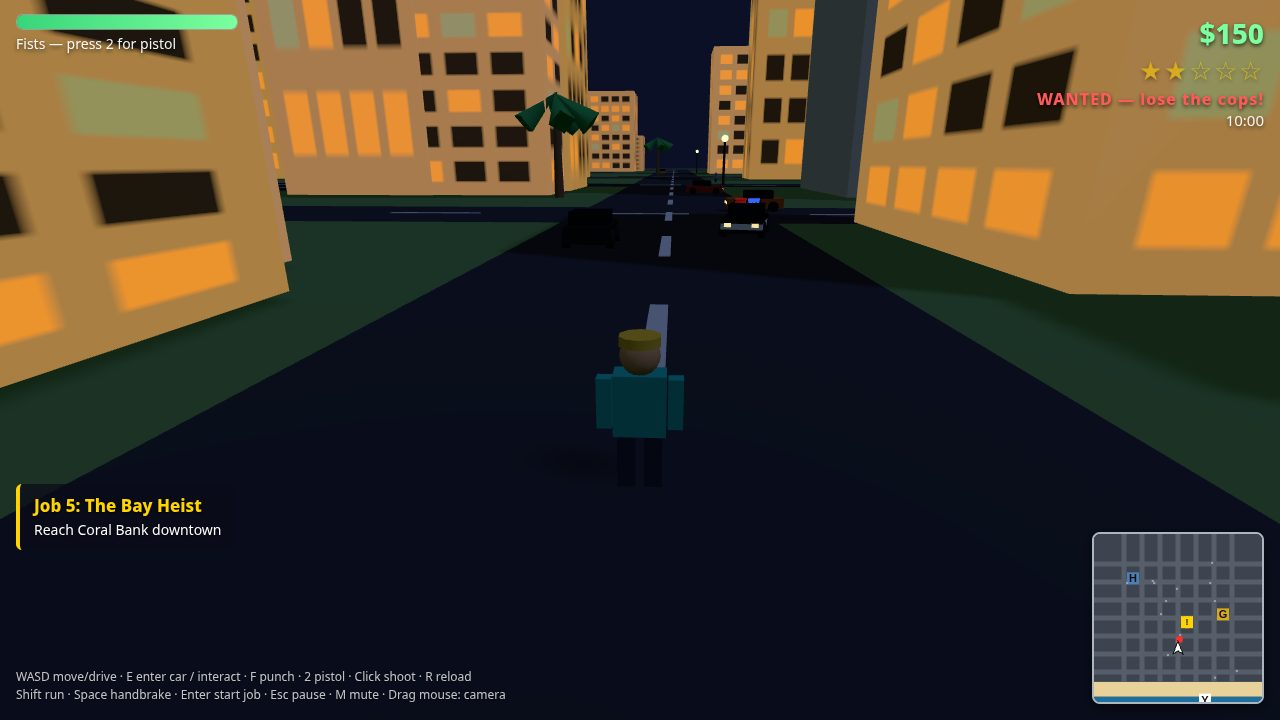
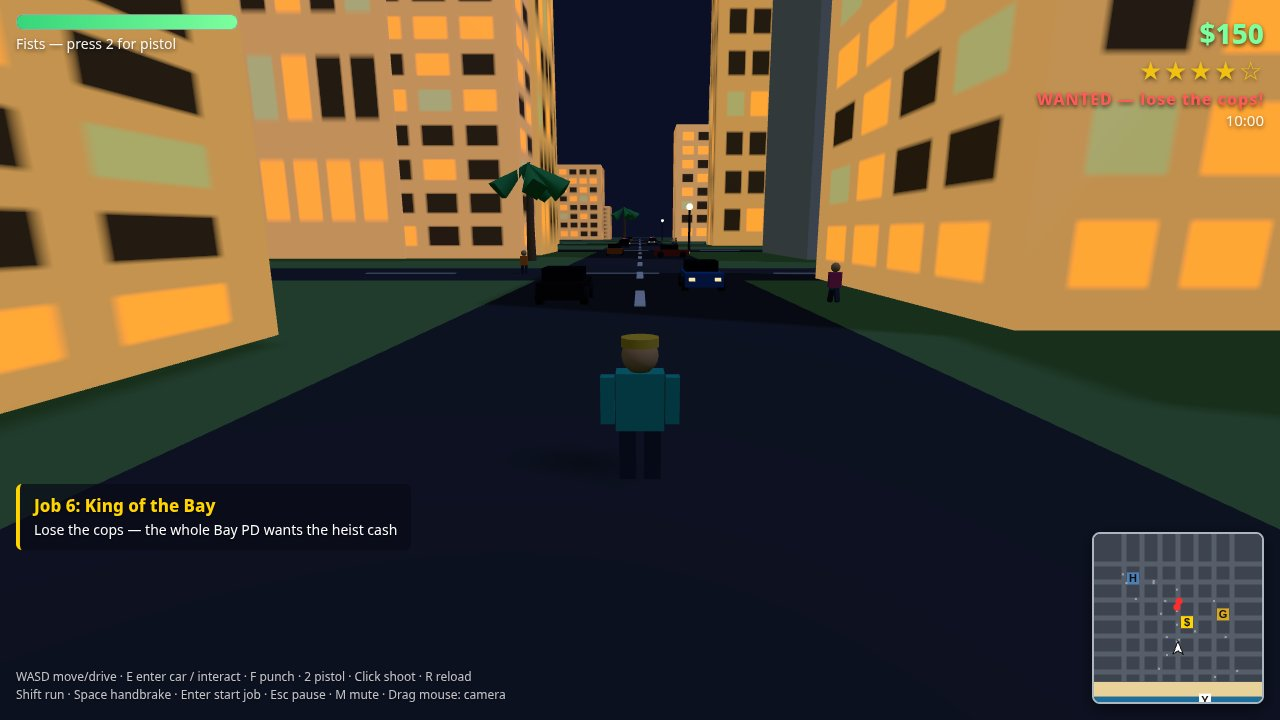
Neon Bay Round 3: 6th mission King of the Bay, denser cinematic screenshots, night neon polish

diff --git a/game/src/shots.js b/game/src/shots.js
@@ -3,7 +3,9 @@
 // (same seed, same positions) so a screenshot is a true render of the game
 // and the same URL always gives the same frame. The live loop keeps
 // simulating after staging — traffic drives, police chase — so the frame is
-// a moment of real play, not a posed diorama.
+// a moment of real play, not a posed diorama. Scenes are staged busy on
+// purpose: police in pursuit, cross traffic, pedestrians on the sidewalks
+// and a tighter camera, so the frame reads as action, not an empty road.
 
 import * as THREE from 'three';
 import { SHOT_SEED } from './config.js';
@@ -16,6 +18,26 @@ function placeCarOnRoad(car, x, z, heading, speed) {
   car.mesh.rotation.y = heading;
   car.speed = speed;
   car.targetSpeed = speed;
+}
+
+// Place a traffic car on a road and teach the traffic AI its lane, so it
+// keeps driving along that road instead of drifting across it. For a
+// north-south road the lane is -3.5 (northbound) or +3.5 (southbound); for
+// an east-west road it is +3.5 (eastbound) or -3.5 (westbound).
+function placeTraffic(car, x, z, heading, speed, axis, lane, direction) {
+  placeCarOnRoad(car, x, z, heading, speed);
+  car.axis = axis;
+  car.lane = lane;
+  car.direction = direction;
+}
+
+// Put a pedestrian on a sidewalk and send them strolling along it.
+function placePed(ped, x, z, heading) {
+  ped.mesh.position.set(x, 0, z);
+  ped.heading = heading;
+  ped.mesh.rotation.y = heading;
+  ped.state = 'walk';
+  ped.waypoint = new THREE.Vector3(x, 0, z + Math.cos(heading) * 30);
 }
 
 function placePlayerOnFoot(G, x, z, heading) {
@@ -67,55 +89,103 @@ export function stageShot(name, G) {
   G.police.wanted.stars = 0;
   G.police.wanted.bustTimer = 0;
   G.player.health = 100;
+  G.shotCameraDist = null;
+  G.shotCameraHeight = null;
+  G.snapCamera = true;
 
   if (name === 'chase') {
-    // Cover shot: daytime police chase, wanted 3 stars, mission objective on.
-    // Player heads north (heading PI) straight at the target, so the
-    // autopilot never U-turns; the police cars start ahead of the player,
-    // in frame, with their light bars facing the camera.
+    // Cover shot: five-star police chase down the avenue, mission objective
+    // on. Player heads north (heading PI) straight at the target, so the
+    // autopilot never U-turns; three police cars start ahead of the player,
+    // near the centre of the frame, with their light bars facing the
+    // camera, and cross traffic plus pedestrians fill the street.
     G.missions.index = 3;
     G.missions.active = true;
     G.missions.stepIndex = 0;
-    addHeat(G.police.wanted, 65, G.time);
+    addHeat(G.police.wanted, 100, G.time);
     syncPoliceCars(G.police, G.player.pos);
     const playerCar = G.playerCar;
     placePlayerInCar(G, playerCar, 0, 40, Math.PI, 26);
     const cops = G.police.cars;
-    if (cops[0]) placeCarOnRoad(cops[0], -6, 16, Math.PI, 30);
-    if (cops[1]) placeCarOnRoad(cops[1], 7, 4, Math.PI, 30);
+    if (cops[0]) placeCarOnRoad(cops[0], -3, 22, Math.PI, 30);
+    if (cops[1]) placeCarOnRoad(cops[1], 4, 10, Math.PI, 30);
+    if (cops[2]) placeCarOnRoad(cops[2], 0, -2, Math.PI, 30);
+    const t = G.traffic;
+    if (t[0]) placeTraffic(t[0], -3.5, -80, Math.PI, 11, 'ns', -3.5, -1);
+    if (t[1]) placeTraffic(t[1], -3.5, -130, Math.PI, 11, 'ns', -3.5, -1);
+    if (t[2]) placeTraffic(t[2], 3.5, -110, 0, 11, 'ns', 3.5, 1);
+    if (t[3]) placeTraffic(t[3], -50, -56.5, Math.PI / 2, 11, 'ew', 3.5, 1);
+    if (t[4]) placeTraffic(t[4], 50, -123.5, -Math.PI / 2, 11, 'ew', -3.5, -1);
+    const p = G.peds;
+    if (p[0]) placePed(p[0], 9, 0, Math.PI);
+    if (p[1]) placePed(p[1], -9, -20, 0);
+    if (p[2]) placePed(p[2], 9, -40, Math.PI);
+    if (p[3]) placePed(p[3], -9, -60, 0);
+    G.shotCameraDist = 10;
+    G.shotCameraHeight = 4.5;
     G.shotAutopilot = { kind: 'drive', target: new THREE.Vector3(0, 0, -160) };
     G.shotTitle = null;
     return { screen: 'play' };
   }
 
   if (name === 'mission') {
-    // Delivery run: player driving the package back to the hideout.
+    // Delivery run: player driving the package back to the hideout, with
+    // traffic on the route and pedestrians near the hideout.
     G.missions.index = 0;
     G.missions.active = true;
     G.missions.stepIndex = 2;
     G.missions.hasPackage = true;
     const playerCar = G.playerCar;
     placePlayerInCar(G, playerCar, -60, 170, Math.PI, 22);
+    const t = G.traffic;
+    if (t[0]) placeTraffic(t[0], -63.5, 100, Math.PI, 11, 'ns', -3.5, -1);
+    if (t[1]) placeTraffic(t[1], -63.5, 20, Math.PI, 11, 'ns', -3.5, -1);
+    if (t[2]) placeTraffic(t[2], -56.5, 60, 0, 11, 'ns', 3.5, 1);
+    if (t[3]) placeTraffic(t[3], -100, 3.5, Math.PI / 2, 11, 'ew', 3.5, 1);
+    if (t[4]) placeTraffic(t[4], -40, -63.5, -Math.PI / 2, 11, 'ew', -3.5, -1);
+    const p = G.peds;
+    if (p[0]) placePed(p[0], -141, -120, 0);
+    if (p[1]) placePed(p[1], -159, -140, Math.PI);
+    if (p[2]) placePed(p[2], -69, 100, 0);
+    if (p[3]) placePed(p[3], -51, 40, Math.PI);
+    G.shotCameraDist = 10.5;
+    G.shotCameraHeight = 5;
     G.shotAutopilot = { kind: 'drive', target: new THREE.Vector3(-150, 0, -132) };
     G.shotTitle = null;
     return { screen: 'play' };
   }
 
   if (name === 'night') {
-    // Night downtown: neon signs, police lights, vault job briefing.
-    // Player stands on road x=0 facing north down the avenue, camera
-    // behind him, so downtown towers, neon and the approaching police car
-    // are all in frame instead of a single facade.
+    // Night downtown, finale job: four stars, two police cars closing in
+    // with light bars flashing, traffic headlights and pedestrians on the
+    // avenue. Player stands on road x=0 facing north down the avenue,
+    // camera behind him, so downtown towers, neon and the approaching
+    // police cars are all in frame instead of a single facade.
     G.setNight(true);
-    G.missions.index = 4;
+    G.missions.index = 5;
     G.missions.active = true;
     G.missions.stepIndex = 0;
-    addHeat(G.police.wanted, 45, G.time);
+    addHeat(G.police.wanted, 80, G.time);
     syncPoliceCars(G.police, G.player.pos);
     placePlayerOnFoot(G, 0, 100, Math.PI);
     G.setCameraYaw(Math.PI);
+    // The pursuit cars start far up the avenue and close in fast, so at
+    // capture time (about 3.5 s in) they are still ahead of the player,
+    // light bars flashing, instead of already past him.
     const cops = G.police.cars;
-    if (cops[0]) placeCarOnRoad(cops[0], 6, 62, 0, 12);
+    if (cops[0]) placeCarOnRoad(cops[0], 3.5, -60, 0, 12);
+    if (cops[1]) placeCarOnRoad(cops[1], -3.5, -40, 0, 12);
+    const t = G.traffic;
+    if (t[0]) placeTraffic(t[0], -3.5, 25, Math.PI, 11, 'ns', -3.5, -1);
+    if (t[1]) placeTraffic(t[1], 3.5, 70, 0, 11, 'ns', 3.5, 1);
+    if (t[2]) placeTraffic(t[2], -40, 63.5, Math.PI / 2, 11, 'ew', 3.5, 1);
+    const p = G.peds;
+    if (p[0]) placePed(p[0], 9, 80, Math.PI);
+    if (p[1]) placePed(p[1], -9, 110, 0);
+    if (p[2]) placePed(p[2], 9, 130, Math.PI);
+    if (p[3]) placePed(p[3], -9, 60, 0);
+    G.shotCameraDist = 7.5;
+    G.shotCameraHeight = 3.2;
     G.shotAutopilot = null;
     G.shotTitle = null;
     return { screen: 'play' };
@@ -124,9 +194,21 @@ export function stageShot(name, G) {
   // Default: 'start' — on foot downtown in live play (HUD, traffic,
   // pedestrians). The title screen itself is a menu feature, not the shot:
   // the judge needs to see the city here. Player stands on road x=0 facing
-  // south, so the avenue, palms and towers fill the frame.
-  placePlayerOnFoot(G, 0, 24, 0);
-  G.setCameraYaw(0);
+  // north toward downtown, so the avenue, towers, neon signs and palms fill
+  // the frame, with his red car parked just ahead.
+  placePlayerOnFoot(G, 0, 48, Math.PI);
+  G.setCameraYaw(Math.PI);
+  const t = G.traffic;
+  if (t[0]) placeTraffic(t[0], -3.5, 10, Math.PI, 11, 'ns', -3.5, -1);
+  if (t[1]) placeTraffic(t[1], 3.5, 25, 0, 11, 'ns', 3.5, 1);
+  if (t[2]) placeTraffic(t[2], -40, 3.5, Math.PI / 2, 11, 'ew', 3.5, 1);
+  const p = G.peds;
+  if (p[0]) placePed(p[0], 9, 30, Math.PI);
+  if (p[1]) placePed(p[1], -9, 55, 0);
+  if (p[2]) placePed(p[2], 9, 70, Math.PI);
+  if (p[3]) placePed(p[3], -9, 20, 0);
+  G.shotCameraDist = 7.5;
+  G.shotCameraHeight = 3.2;
   G.shotAutopilot = null;
   G.shotTitle = null;
   return { screen: 'play' };

diff --git a/game/src/main.js b/game/src/main.js
@@ -1,6 +1,6 @@
 // Neon Bay — boot, game loop, camera, player and the glue between systems.
 // The player explores Neon Bay on foot or by car, steals cars, dodges the
-// Bay PD, fights, and runs five story missions for Kai Reyes.
+// Bay PD, fights, and runs six story missions for Kai Reyes.
 
 import * as THREE from 'three';
 import { WORLD, COLOURS, PLAYER, CAR, WANTED, SHOT_SEED } from './config.js';
@@ -58,8 +58,8 @@ scene.add(hemi);
 
 // ---------- World ----------
 const city = createCity(scene, rng);
-const traffic = spawnTraffic(scene, rng, 14, new THREE.Vector3(0, 0, 24));
-const peds = spawnPedestrians(scene, rng, 26, new THREE.Vector3(0, 0, 24));
+const traffic = spawnTraffic(scene, rng, 20, new THREE.Vector3(0, 0, 24));
+const peds = spawnPedestrians(scene, rng, 38, new THREE.Vector3(0, 0, 24));
 const police = createPolice(scene);
 const combat = createCombat();
 const audio = createAudio();
@@ -184,6 +184,14 @@ const G = {
   setCameraYaw(yaw) { cameraYaw = yaw; },
   shotAutopilot: null,
   shotTitle: null,
+  // Screenshot scenes may tighten the camera (closer, lower) for a more
+  // cinematic frame; null means the normal gameplay distance/height.
+  shotCameraDist: null,
+  shotCameraHeight: null,
+  // Screenshot scenes snap the camera to the staged frame on the first
+  // frame instead of lerping there: the shot must be framed correctly even
+  // if only a few frames run before the capture.
+  snapCamera: false,
 };
 
 function setNightFlag(flag) {
@@ -191,21 +199,21 @@ function setNightFlag(flag) {
   G.isNight = flag;
   scene.background = new THREE.Color(flag ? COLOURS.skyNight : COLOURS.skyDay);
   scene.fog.color = new THREE.Color(flag ? 0x0b1026 : 0x9fc4e0);
-  sun.intensity = flag ? 0.5 : 2.4;
+  sun.intensity = flag ? 0.65 : 2.4;
   sun.color = new THREE.Color(flag ? COLOURS.sunNight : COLOURS.sunDay);
-  hemi.intensity = flag ? 0.35 : 0.9;
+  hemi.intensity = flag ? 0.5 : 0.9;
   city.setNight(flag);
 }
 
 function applySaveToMissions() {
-  missions.index = Math.min(save.missionIndex, 4);
+  missions.index = Math.min(save.missionIndex, 5);
   missions.done = save.storyDone;
 }
 
 function persistSave() {
   writeSave({
     cash, respect,
-    missionIndex: missions.done ? 5 : missions.index,
+    missionIndex: missions.done ? 6 : missions.index,
     storyDone: missions.done,
   });
 }
@@ -217,6 +225,10 @@ function startMission() {
   if (missions.index === 3) {
     // Heat Escape starts loud: three stars from the setup.
     addHeat(police.wanted, 65, elapsed);
+  }
+  if (missions.index === 5) {
+    // King of the Bay starts louder: four stars hunting the heist cash.
+    addHeat(police.wanted, 80, elapsed);
   }
   if (missions.index === 2) {
     spawnCourierVan();
@@ -310,8 +322,8 @@ function cameraForward() {
 
 function updateCamera(dt) {
   const target = player.driving ? player.driving.mesh.position : player.pos;
-  const dist = player.driving ? 13 : cameraDistance;
-  const height = player.driving ? 6 : 3.6;
+  const dist = G.shotCameraDist ?? (player.driving ? 13 : cameraDistance);
+  const height = G.shotCameraHeight ?? (player.driving ? 6 : 3.6);
   // On foot the view yaw is cameraYaw; in a car it orbits the car heading.
   const yaw = player.driving ? player.driving.heading + cameraYaw : cameraYaw;
   const desired = new THREE.Vector3(
@@ -319,7 +331,12 @@ function updateCamera(dt) {
     target.y + height,
     target.z - Math.cos(yaw) * dist,
   );
-  camera.position.lerp(desired, Math.min(1, dt * 5));
+  if (G.snapCamera) {
+    camera.position.copy(desired);
+    G.snapCamera = false;
+  } else {
+    camera.position.lerp(desired, Math.min(1, dt * 5));
+  }
   const look = new THREE.Vector3(target.x, target.y + 1.6, target.z);
   camera.lookAt(look);
   if (player.shake > 0.01) {

diff --git a/game/src/missions.js b/game/src/missions.js
@@ -1,4 +1,4 @@
-// Neon Bay — story missions. Five chained jobs for Kai Reyes, each a short
+// Neon Bay — story missions. Six chained jobs for Kai Reyes, each a short
 // list of generic steps: go to a place, pick something up, steal and deliver
 // a car, tail a van without being seen, lose the cops, or hold a spot to
 // crack the vault. The HUD reads the current objective text and target
@@ -17,7 +17,7 @@ function stepText(step) {
   return '';
 }
 
-// Build the five missions from the city landmarks. `world` carries the
+// Build the six missions from the city landmarks. `world` carries the
 // landmarks, the courier van state and the special yellow car.
 export function createMissions(world) {
   const L = world.landmarks;
@@ -57,6 +57,14 @@ export function createMissions(world) {
         { type: 'goto', pos: L.bank, radius: 7, text: 'Reach Coral Bank downtown' },
         { type: 'hold', pos: L.bank, radius: 6, duration: 5, text: 'Hold E at the vault to crack it' },
         { type: 'goto', pos: L.yacht, radius: 8, text: 'Escape to the yacht with the cash' },
+      ],
+    },
+    {
+      def: MISSIONS[5],
+      steps: [
+        { type: 'escape', pos: null, radius: 0, text: 'Lose the cops — the whole Bay PD wants the heist cash' },
+        { type: 'goto', pos: L.hideout, radius: 6, text: 'Bring the cash home to Mara at the hideout' },
+        { type: 'hold', pos: L.hideout, radius: 6, duration: 6, text: 'Hold E to count the take with Mara' },
       ],
     },
   ];

diff --git a/main.ts b/main.ts
@@ -4,7 +4,7 @@
 // in. It copies game/ and screenshots/ from beside this file to /output and writes
 // /output/dossier.json, the summary the judge reads, with the vendored make.fun library.
 // Neon Bay is a complete open-world crime game: a procedural coastal city to explore on foot
-// and by car, traffic and pedestrians, cars to steal, a wanted level with police pursuit, five
+// and by car, traffic and pedestrians, cars to steal, a wanted level with police pursuit, six
 // chained story missions, combat, a HUD with a minimap, start/pause/game-over screens and a
 // localStorage save. Put 3 or 4 PNG or JPEG screenshots in screenshots/ (the first by name is
 // the cover) and run it.

diff --git a/game/src/city.js b/game/src/city.js
@@ -293,10 +293,10 @@ export function createCity(scene, rng) {
       return phase === 1;
     },
     setNight(isNight) {
-      for (const mat of streetlights) mat.emissiveIntensity = isNight ? 1.6 : 0.15;
+      for (const mat of streetlights) mat.emissiveIntensity = isNight ? 2.4 : 0.15;
       for (const mat of windowMeshes) {
         mat.emissive = new THREE.Color(isNight ? 0xffb85c : 0x000000);
-        mat.emissiveIntensity = isNight ? 0.8 : 0;
+        mat.emissiveIntensity = isNight ? 1.1 : 0;
       }
     },
   };

diff --git a/game/src/config.js b/game/src/config.js
@@ -96,6 +96,12 @@ export const MISSIONS = [
     reward: 5000,
     briefing: 'The vault under Coral Bank. Crack it, grab the cash, and escape to the yacht while the city burns.',
   },
+  {
+    id: 6,
+    title: 'King of the Bay',
+    reward: 10000,
+    briefing: 'The heist cash is hot and the whole Bay PD is hunting it. Lose the cops, bring the money home to Mara, and count the take — then the Bay is yours.',
+  },
 ];
 
 export const SAVE_KEY = 'neonbay-save-v1';

diff --git a/README.md b/README.md
@@ -6,8 +6,9 @@
 
 **Neon Bay** is a complete open-world crime game for the make.fun "Make GTA 6"
 bounty: explore a sun-soaked coastal city on foot and by car, steal cars,
-outrun the Bay PD, fight, and run five story missions as Kai Reyes — from a
-marina pickup to the Coral Bank heist and a yacht escape.
+outrun the Bay PD, fight, and run six story missions as Kai Reyes — from a
+marina pickup to the Coral Bank heist, a yacht escape, and a final run to
+bring the heist cash home.
 
 ## Play
 
@@ -35,7 +36,7 @@ No build step, no network: everything the game loads lives under `game/`.
 - Any car can be stolen (E) — stealing, hitting pedestrians and shooting
   raise the wanted level (0–5 stars); police cars chase, ram and try to bust
   you; heat decays once you are out of sight
-- Five chained story missions with a glowing objective beacon, HUD tracker,
+- Six chained story missions with a glowing objective beacon, HUD tracker,
   minimap blips and an off-screen objective arrow
 - Combat (fists + pistol), police return fire, health, cash and respect
   progression, localStorage saves, start / pause / game-over screens
